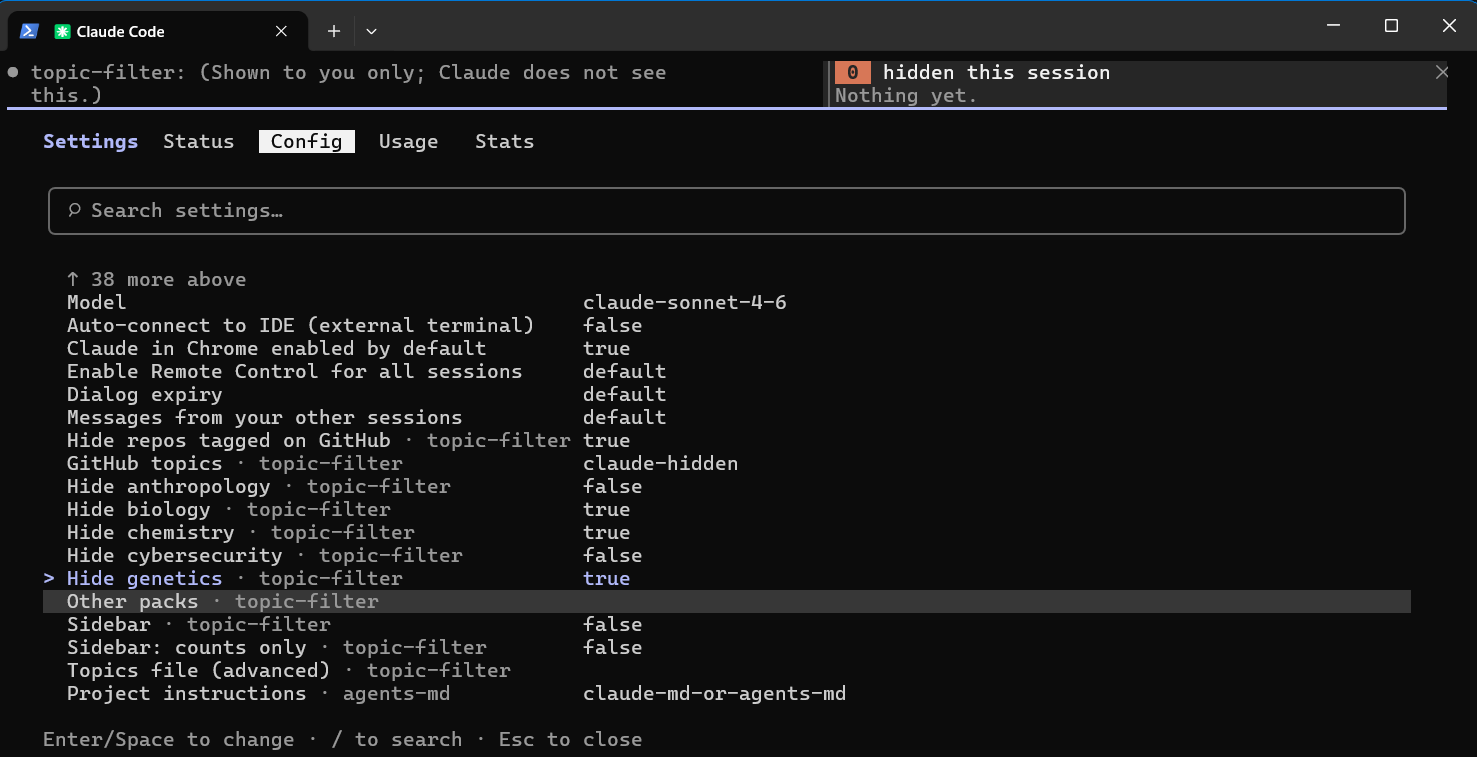
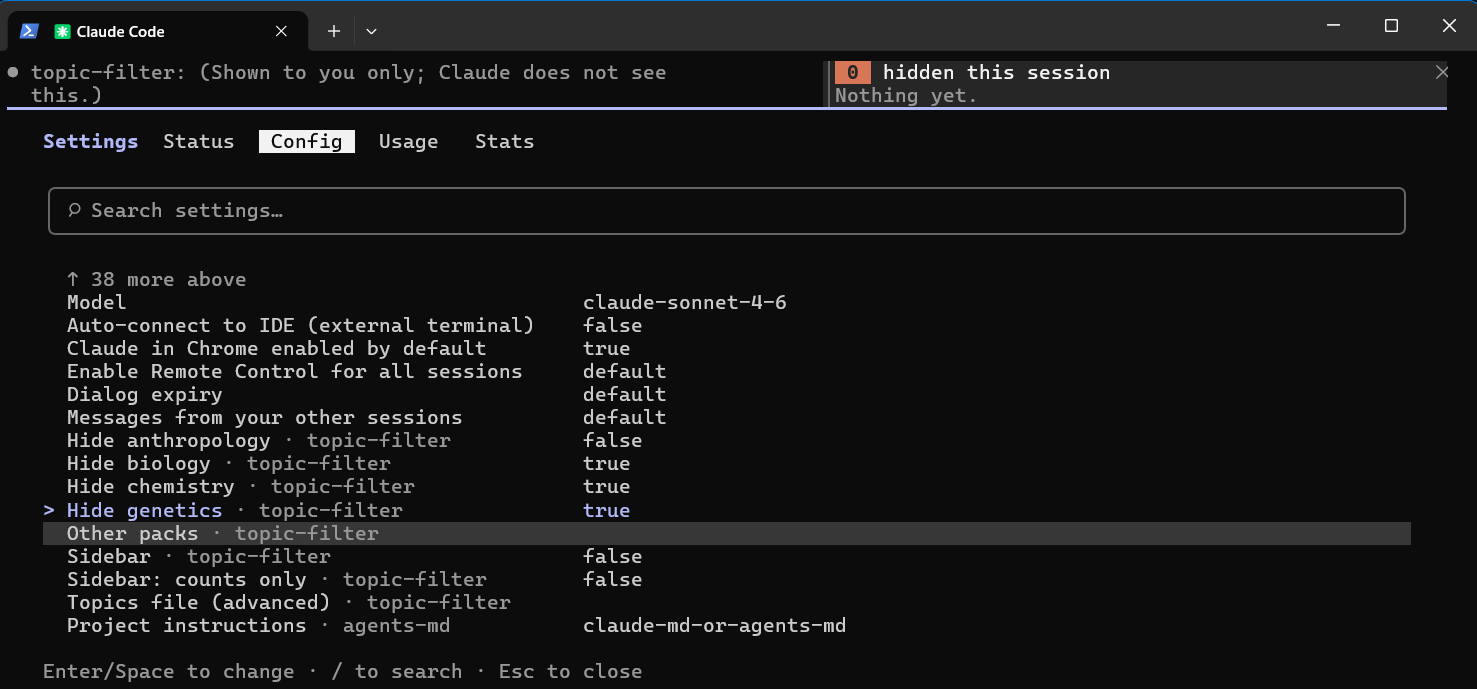
fix: apply the review: neutral wording, no restore on pack lists
- config.ts: restore is refused on a list that uses a pack; test added.
- Model-facing notes say items are set aside as off-topic.
- README: neutral wording throughout, quote the note Claude gets, drop the
  roadmap items about withholding and transcript views, an upgrade note
  for the removed cybersecurity pack, stale tagged-repos references gone.
- Manifests: keywords focus and placeholders, category productivity.
- images/hide_config.png: cut the removed rows.

Changed region(s): [[0.0, 0.061, 1.0, 1.0], [0.0, 0.0305, 0.1246, 0.061]]

diff --git a/hooks/register.ts b/hooks/register.ts
@@ -1,6 +1,6 @@
 // topic-filter: hides chosen topics from the model.
 //
-// Every place text enters the model's context is hooked, and the listed
+// Every place text enters the model's context, except the system prompt, is hooked, and the listed
 // terms in it become placeholder names (or their lines are dropped) before
 // the model reads it: tool results on their way up from core, the person's
 // prompt, the first message's context blocks
@@ -56,7 +56,7 @@ const MODEL_FACING_TOOLS = new Set([
 const EXPLAINER =
   "Some names in this session may be placeholders written by the user's topic-filter mod: capitalized " +
   'numbered codenames such as Bubblegum7 or Kazoo12, or tags such as [hidden-3fa2c1]. Each stands for an item the ' +
-  'user has hidden from this session, and lines about some hidden items are removed entirely. Treat a ' +
+  'user has set aside as off-topic for this session, and lines about some of those items are removed entirely. Treat a ' +
   'placeholder as an opaque name and do not guess what it stands for. Mentioning placeholders in replies ' +
   'is fine. A tool call (command, search, file edit) that uses one is refused, unless the note on the ' +
   'output it came from says that placeholder may be used.'
@@ -169,7 +169,7 @@ function toolSource(tool: string, input: Record<string, unknown>): string {
 /** The `configPath` option; empty means the default under the home directory. */
 let configured = ''
 
-/** The plugin's settings: what to hide besides the topics file (packs, tagged repos, extra words). */
+/** The plugin's settings: what to hide besides the topics file (packs, extra words). */
 let pluginOptions: PluginOptions = {}
 
 /** Files the model has read with something hidden, by pathKey. */

diff --git a/hooks/config.ts b/hooks/config.ts
@@ -74,11 +74,16 @@ function parseList(list: unknown, i: number): ListConfig {
     throw new ConfigError(`${at}.pack must be a pack name (lowercase letters, digits, hyphens)`)
   }
 
+  const restore = flag(list.restore, false, `${at}.restore`)
+  // Restore writes real terms into tool input; it is for the person's own
+  // names, never for a topic pack.
+  if (restore && pack !== undefined) throw new ConfigError(`${at}.restore is not allowed on a list that uses a pack`)
+
   return {
     name: typeof list.name === 'string' ? list.name : `list ${i + 1}`,
     mode: oneOf(list.mode, ['replace', 'drop-line'] as const, 'replace', `${at}.mode`),
     match: oneOf(list.match, ['word', 'substring'] as const, 'word', `${at}.match`),
-    restore: flag(list.restore, false, `${at}.restore`),
+    restore,
     terms: strings(list.terms, `${at}.terms`),
     pack,
     exclude: strings(list.exclude, `${at}.exclude`),

diff --git a/hooks/redact.ts b/hooks/redact.ts
@@ -345,7 +345,7 @@ export function noteFor(tally: Tally, restorable: ReadonlySet<string> = new Set(
         : `Of these, ${usable.join(', ')} may be used in tool calls (the real name is put back); a tool call using any other is refused.`
 
   return (
-    `topic-filter: ${parts.join(', and ')}. The user has hidden these items from this session. ` +
+    `topic-filter: ${parts.join(', and ')}. The user has set these items aside as off-topic for this session. ` +
     `Treat a placeholder as an opaque name and do not guess what it stands for. ${rule}`
   )
 }

diff --git a/tests/filter.test.ts b/tests/filter.test.ts
@@ -103,6 +103,7 @@ const filter = () => new Filter(CONFIG, 'test-salt-0123456789')
 describe('config and packs', () => {
   test('a pack name must be a plain name, never a path', () => {
     expect(() => parseConfig('{"lists": [{"pack": "../secrets"}]}')).toThrow(/lists\[0\]\.pack must be a pack name/)
+    expect(() => parseConfig('{"lists": [{"pack": "demo", "restore": true}]}')).toThrow(/lists\[0\]\.restore is not allowed on a list that uses a pack/)
   })
 
   test('pack errors name the pack and a position, never a term', () => {

diff --git a/README.md b/README.md
@@ -17,7 +17,8 @@ without explaining your history first.
 
 `topic-filter` is a [Claude Mod](https://github.com/anthropics/claude-code/tree/main/mods)
 (a Claude Code plugin built on function hooks) that keeps chosen topics out of
-the way. Before the model reads anything, each listed term becomes a stable
+the way. Before the model reads tool output, prompts, CLAUDE.md and skills,
+each listed term becomes a stable
 placeholder (`Teotihuacan` becomes `Teacup7`), or the lines that mention it
 disappear. Your repos, notes and memory stay as they are.
 
@@ -71,8 +72,8 @@ hidden and where (both shown to you only).
 
 The [topics file](#the-topics-file) is optional. Use it for what the settings
 cannot express: drop-line or restore modes for your own words, several lists,
-`exclude`. Write it yourself in an editor rather than asking Claude, since it
-holds the words you are hiding. Its lists add to the settings'.
+`exclude`. Edit it in an editor: it lists the very terms you want kept out of
+the session. Its lists add to the settings'.
 
 > Needs Claude Code 2.1.287 or newer. The stable update channel can lag
 > behind that, so use the latest channel if `claude --version` shows
@@ -98,6 +99,11 @@ Either way, restart Claude Code afterwards; running sessions keep the old
 version. `claude plugin list` shows the version you have. Updates never touch
 your topics file or your own packs in `~/.claude/topic-filter/`.
 
+**Upgrading to 0.7.0.** The built-in cybersecurity pack is gone. If a list in
+your topics file has `"pack": "cybersecurity"`, tool calls pause until you take
+it out, and its `/config` switch no longer does anything. A list that uses a
+pack can no longer set `"restore": true`.
+
 To remove it: `claude plugin uninstall topic-filter@topic-filter-mod`. Your
 topics file stays until you delete it.
 
@@ -110,7 +116,7 @@ to see. [List their names](#hiding-repositories-without-deleting-them) in a
 Run `/topic-filter` in a session to see each list and where its terms come
 from, `/topic-filter packs` to see every topic pack and which lists use it,
 `/topic-filter off` and `on` to [pause and resume it](#pausing-it),
-and `/topic-filter reload` after tagging repos. The overview and the pack list
+and `/topic-filter reload` after editing packs. The overview and the pack list
 show counts, never terms.
 Edits to the topics file and packs are picked up on their own.
 
@@ -136,7 +142,7 @@ are hiding. `/topic-filter log clear` empties the second part sooner; the
 first stays, as that text is still in every request.
 
 Every `/topic-filter` output is shown to you only: it names packs, lists and
-terms, which would tell Claude what is being hidden. Two caveats for the log,
+terms, so it is printed for you and not added to the conversation. Two caveats for the log,
 which names real terms:
 
 - Claude Code copies every such line into its debug log, so with `--debug` or
@@ -190,7 +196,7 @@ what that subagent read.
   it to counts by list, with no words, placeholders or file names, in the tree
   and the feed alike.
 
-The sidebar is drawn on your screen only and never reaches Claude.
+The sidebar is drawn in your terminal and is not part of the conversation.
 
 ### Pausing it
 
@@ -210,8 +216,8 @@ lists and terms it resumed with.
   the count, and the sidebar says so at the top.
 - **Claude is told.** Pausing and resuming each leave Claude a one-line note,
   so it knows whether placeholders will be refused.
-- **Two guards stay on.** The topics file is still out of reach, since reading
-  it would show the whole list. A file Claude read with content hidden still
+- **Two guards stay on.** The topics file is still not read into the session,
+  since that would bring every listed term back into context. A file Claude read with content hidden still
   cannot be overwritten whole until Claude reads it again, in full, while
   paused.
 
@@ -239,7 +245,7 @@ What Claude read before the pause keeps its placeholders.
 | `lists[].terms` | `[]` | The terms to hide. |
 | `lists[].mode` | `replace` | `replace` swaps each term for its placeholder. `drop-line` removes every line that mentions a term; in JSON (`gh ... --json`, MCP results) the whole array item goes. A typed prompt always gets placeholders, never lost lines. |
 | `lists[].match` | `word` | `word` matches whole words only. `substring` matches inside words too (`maya` in `Mayapan`). |
-| `lists[].restore` | `false` | When the model uses this list's placeholder in a tool call, write the real term back instead of refusing. For drafting text that must contain real names the model should not read. |
+| `lists[].restore` | `false` | When the model uses this list's placeholder in a tool call, write the real term back instead of refusing. For your own names (contacts, client names) that a tool must write out exactly. Not allowed on a list that uses a `pack`. |
 | `lists[].pack` | none | A [topic pack](#topic-packs) whose terms join the list. |
 | `lists[].exclude` | `[]` | Terms to leave out of the list, whatever brought them in (a pack or `terms`). Matched the same forgiving way as terms. |
 
@@ -262,7 +268,8 @@ every name yourself. Point a list at one:
 { "lists": [{ "name": "anthropology", "pack": "anthropology", "exclude": ["Maya"], "terms": ["my extra word"] }] }
 ```
 
-The list keeps its own `mode`, `match` and `restore`, `exclude` drops pack
+The list keeps its own `mode` and `match` (`restore` is not allowed on a
+pack list), `exclude` drops pack
 terms you do not want hidden, and `terms` adds your own. `/topic-filter packs`
 lists every pack with what it covers and its counts (never its terms), and
 marks which of your lists use it.
@@ -271,7 +278,7 @@ A pack name that does not exist is never ignored quietly, since that would
 hide nothing while looking set up. Tool calls pause, a toast names the
 missing pack, the footer label turns yellow, and `/topic-filter` suggests the
 closest real one ("Did you mean paleontology?") and lists what is available.
-Claude only hears that the settings have a problem, not which pack.
+The session is told only that the settings need attention.
 
 **Built-in packs** ship in this repository's [`packs/`](packs) folder:
 
@@ -316,14 +323,14 @@ instead):
 
 Each one vanishes from `gh repo list`, `gh api` JSON, GitHub MCP results,
 paths and file contents. Take the name out to bring it back. The
-topics file is guarded, so the list of hidden names never enters the
-transcript.
+topics file is not read into the session, since that would bring every
+listed name back into context.
 
 ## What it covers
 
 Text reaches the model through many doors, and there is no single outgoing
 request to filter (`turn.step` carries a message count, not the messages). So
-every door is hooked:
+every door but the system prompt is hooked:
 
 | What the model reads | Event |
 | --- | --- |
@@ -336,10 +343,25 @@ every door is hooked:
 
 Each of these hooks changes one thing: it replaces listed terms in the text
 with their placeholders (or drops the line, for a `drop-line` list) and
-passes everything else on unchanged. The system prompt is never hooked
-or changed. `prompt.submit` filters every prompt
+passes everything else on unchanged. With `informModel` on (the default),
+Claude also gets one short note that placeholders exist, quoted below. The
+system prompt is never hooked or changed. `prompt.submit` filters every prompt
 that passes through it, yours or one another plugin submits; the mod never
 submits a prompt itself.
+
+The note Claude gets once per session, in the first message's context:
+
+> Some names in this session may be placeholders written by the user's
+> topic-filter mod: capitalized numbered codenames such as Bubblegum7 or
+> Kazoo12, or tags such as [hidden-3fa2c1]. Each stands for an item the user
+> has set aside as off-topic for this session, and lines about some of those
+> items are removed entirely. Treat a placeholder as an opaque name and do not
+> guess what it stands for. Mentioning placeholders in replies is fine. A tool
+> call (command, search, file edit) that uses one is refused, unless the note
+> on the output it came from says that placeholder may be used.
+
+Tool output that had something replaced carries a one-line note saying how
+many terms were replaced and whether their placeholders may be used.
 
 Going the other way:
 
@@ -358,8 +380,8 @@ Going the other way:
 - **No blind overwrites.** Once the model has read a file with something
   hidden, a whole-file `Write` to it is refused: its copy lacks what it never
   saw. `Edit` still works, and fails safely if its text spans something hidden.
-- **The topics file is off limits.** It names your lists and packs, which
-  say what is hidden even where the words themselves are filtered. Reading,
+- **The topics file stays out of the session.** It names your lists and
+  packs, so reading it would bring every listed term back into context. Reading,
   editing or writing it is refused, as is any shell command that names it.
   Writing another file that merely mentions its path (docs, a script) is fine.
 - **Fails closed.** If filtering throws or runs out of time, what it was
@@ -377,8 +399,7 @@ Read these before relying on it.
 - **Only text is filtered.** Text inside images and PDFs gets through.
 - **Encodings get through.** Base64, hex, a word split across lines, or a file
   whose accents were saved in the wrong encoding (`Teotihuac?n`) does not
-  match. In testing, the model reconstructed a word from exactly that last
-  case. This is a filter, not a security boundary.
+  match. This is a focus aid, not a security or privacy boundary.
 - **Your local transcript keeps what you typed.** The model receives your
   prompt with placeholders, but the engine's queue record in the session file
   on disk holds the text as typed.
@@ -405,7 +426,7 @@ Read these before relying on it.
   `/config` and search `topic-filter`.
 - **Status says `BLOCKING tool calls`.** A setting or the topics file has a
   problem, such as a pack name that does not exist, and tool calls pause until
-  it is fixed so nothing leaks. `/topic-filter` shows the reason and suggests
+  it is fixed so no listed term slips through. `/topic-filter` shows the reason and suggests
   the closest pack name.
 - **A switch set in `/plugin` did not take.** That screen needs the word
   `true`; anything else is saved as false. `/config` has real switches.
@@ -447,11 +468,7 @@ you typed.
 ## Roadmap
 
 - More built-in packs.
-- An optional classifier for text that is about a topic without using a
-  listed word (a local GLiNER server, or Jev), withholding whole chunks.
-- Show you the real names in the transcript view while the model sees
-  placeholders, and a `/topics` pane for adding terms without typing them into
-  the transcript.
+- A `/topics` pane for adding terms without typing them into the conversation.
 
 ## License
 
